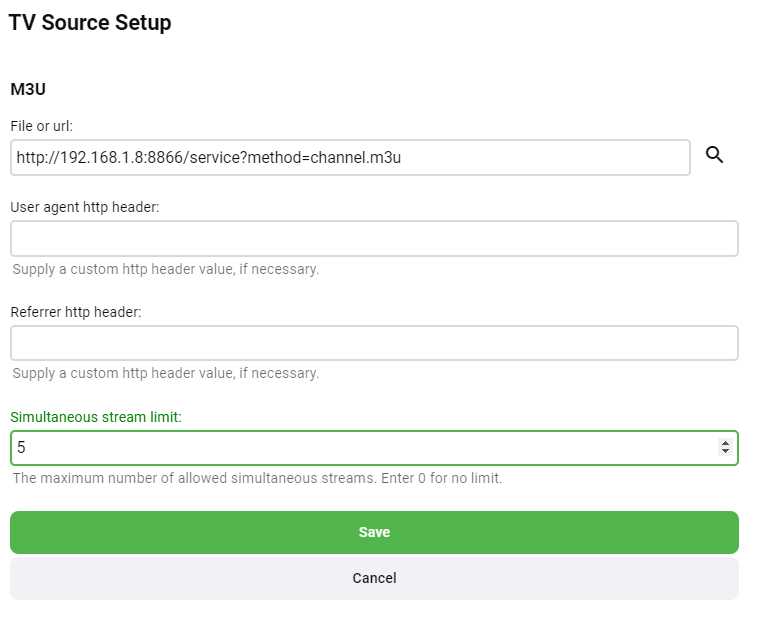
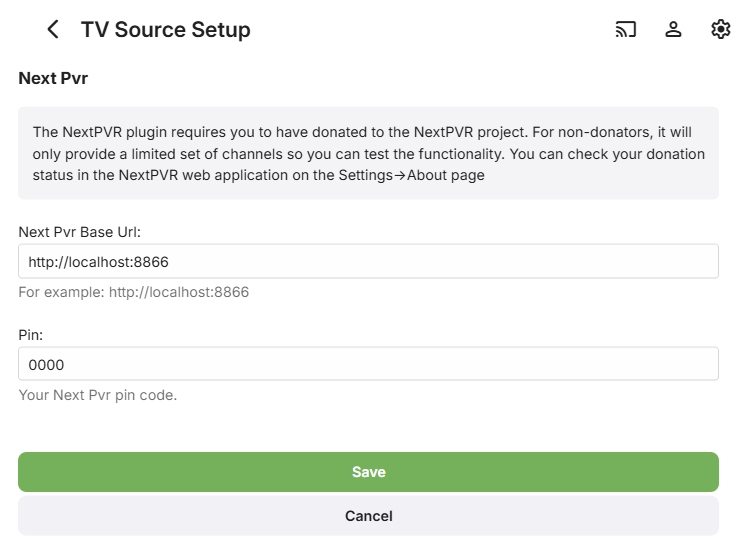
Bring NextPVR article up to date
Changes to reflect how it works now

diff --git a/Live-TV-NextPVR.md b/Live-TV-NextPVR.md
@@ -4,79 +4,22 @@ title: NextPVR Tuner
 legacyUrl: /support/solutions/articles/44002060568-nextpvr-tuner
 ---
 
-Emby Live TV supports setting up NextPVR as a TV Tuner source. Once you have NextPVR setup and ready to use it's very simply to add to Emby. You do not need to setup guide data in NextPVR as we will set this up in Emby.
+Emby Live TV supports setting up NextPVR as a TV Tuner source. Once you have NextPVR server setup and operational, and the NextPVR plugin installed on this Emby server and server restarted, it is very easy to add it to Emby. You do not need to setup guide data in NextPVR as we will set this up in Emby.
 
 Click the Live TV menu option from the web admin and you will see a screen similar to this.
 
 ![Nextpvr 1](images/tvtuners/nextpvr-1.png)
 
-Click the + sign next to TV Sources and you will get the following screen:
+Click the "**+ Add TV Source**" button and you will get the following screen:
 
 ![Nextpvr 2](images/tvtuners/nextpvr-2.png)
 
-Select the M3U Tuner option from above then setup NextPVR similar to this:
+Select the "**Next Pvr**" option from above then setup NextPVR similar to this:
 
 ![Nextpvr 3](images/tvtuners/nextpvr-3.png)
 
-Set the number of streams your provider gives you in the last box.
-You will need to change the IP & Port in the URL to math your system.
-NextPVR uses the following format: 
+The pin number is the pin configured in the NextPVR server Settings / Access screen under the "Application Access" section. 
 
-`http://IP:PORT/service?method=channel.m3u`
-
-### If not using Emby Server Version 4.7+
-
-You will need to change each URL line (search and replace) to include a unique tag.  I suggest using the channel number.  So you add &client=1 to the end of each URL.  Change 1 to match the channel number.  This is handled by Emby Server automatically in versions 4.7 and higher!
-
-```M3U
-#EXTM3U
-#EXTINF:-1 tvg-chno="1",Channel Name for 1
-http://IP:PORT/live?channel=1&client=1
-#EXTINF:-1 tvg-chno="2",Channel Name for 2
-http://IP:PORT/live?channel=2&client=2
-#EXTINF:-1 tvg-chno="3",Your Channel Name for 3
-http://IP:PORT/live?channel=3&client=3
-```
-
-Real Life Example
-This is what NextPVR v5 shows for channels
-
-![Nextpvr 4](images/tvtuners/nextpvr-4.png)
-
-```M3U
-#EXTM3U
-#EXTINF:-1 tvg-chno="3.1",KYW-TV
-http://127.0.0.1:8866/live?channel=3.1&client=3.1
-#EXTINF:-1 tvg-chno="3.2",StartTV
-http://127.0.0.1:8866/live?channel=3.2&client=3.3
-#EXTINF:-1 tvg-chno="3.3",DABL
-http://127.0.0.1:8866/live?channel=3.3&client=3.3
-#EXTINF:-1 tvg-chno="3.4",FaveTV
-http://127.0.0.1:8866/live?channel=3.4&client=3.4
-#EXTINF:-1 tvg-chno="10.1",WCAU-TV
-http://127.0.0.1:8866/live?channel=10.1&client=10.1
-#EXTINF:-1 tvg-chno="10.2",COZI-TV
-http://127.0.0.1:8866/live?channel=10.2&client=10.2
-#EXTINF:-1 tvg-chno="10.3",NBCLX
-http://127.0.0.1:8866/live?channel=10.3&client=10.3
-#EXTINF:-1 tvg-chno="17.1",WPHL-DT
-http://127.0.0.1:8866/live?channel=17.1&client=17.1
-#EXTINF:-1 tvg-chno="17.2",Antenna
-http://127.0.0.1:8866/live?channel=17.2&client=17.2
-#EXTINF:-1 tvg-chno="17.3",Antenna
-http://127.0.0.1:8866/live?channel=17.3&client=17.3
-#EXTINF:-1 tvg-chno="17.4",NBCLX
-http://127.0.0.1:8866/live?channel=17.4&client=17.4
-#EXTINF:-1 tvg-chno="29.1",WTXFDT
-http://127.0.0.1:8866/live?channel=29.1&client=29.1
-#EXTINF:-1 tvg-chno="29.2",Movies!
-http://127.0.0.1:8866/live?channel=29.2&client=29.2
-```
-
-    
-> [!NOTE]
-> If using NextPVR 5.1.1 or later you will need to change settings->Access to enable "Unauthenticated Access" in  NextPVR or your live URLs will fail.
-> 
 > 
 > [!IMPORTANT]
 > There is a 5 channel limit imposed by NextPVR unless you become a donator. Refer to the [NextPVR](https://www.nextpvr.com) web site.
